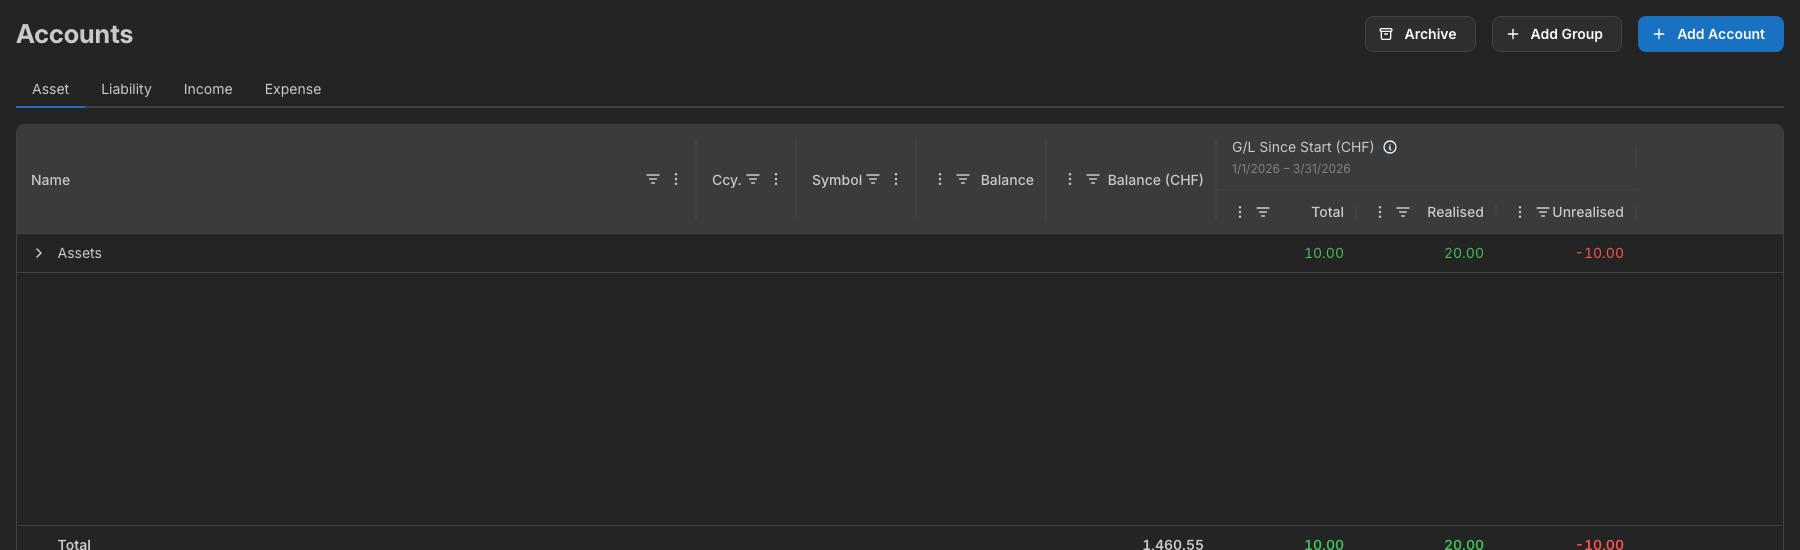
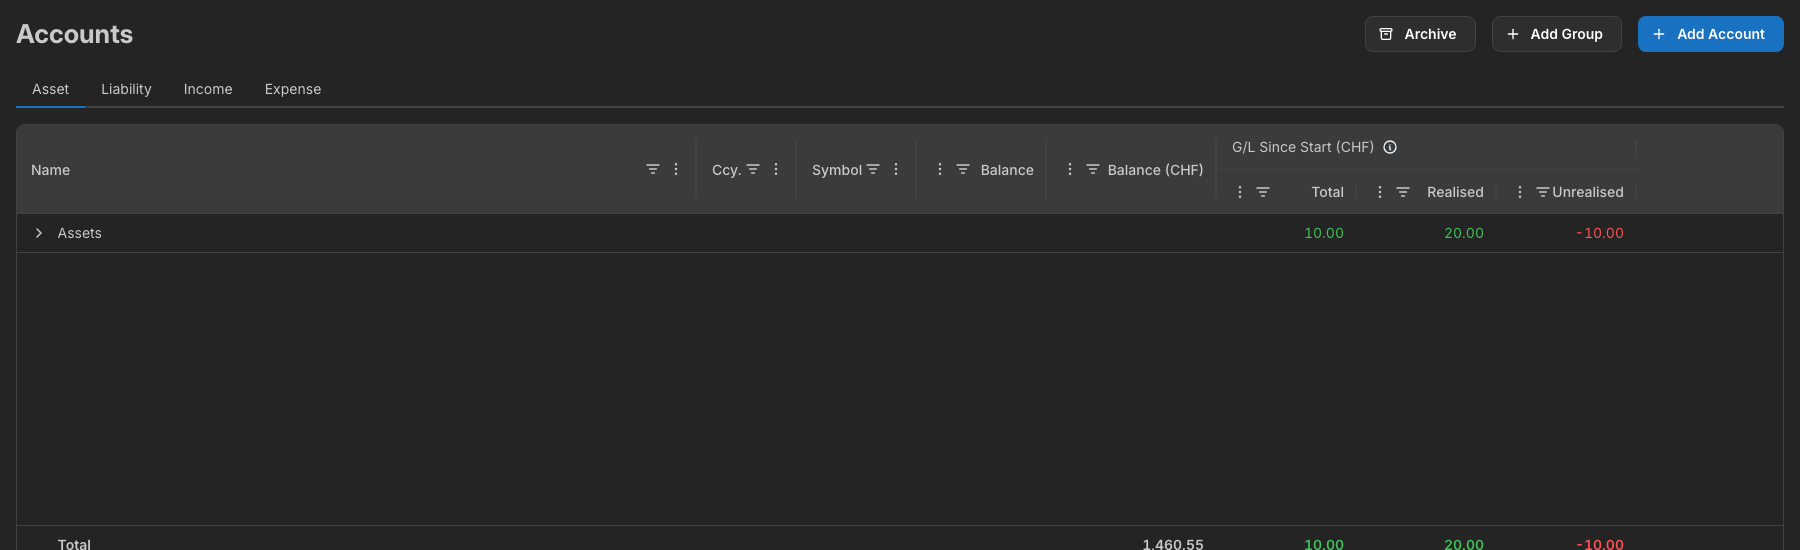
Keep account G/L dates inside the details popover

diff --git a/apps/cashfolio-app2/src/routes/$accountBookId/accounts/-page-view.stories.tsx b/apps/cashfolio-app2/src/routes/$accountBookId/accounts/-page-view.stories.tsx
@@ -570,6 +570,18 @@ async function findVisibleDialog(
   return dialog;
 }
 
+async function openGainLossDetails(canvasElement: HTMLElement) {
+  await userEvent.click(
+    await within(canvasElement).findByRole("button", {
+      name: "Show gain/loss details",
+    }),
+  );
+  return findVisibleDialog(
+    within(canvasElement.ownerDocument.body),
+    "Gain/loss details",
+  );
+}
+
 export const ActiveHappyPath: Story = {
   render: () => <AccountsPageStoryHarness initialMode="active" />,
 };
@@ -767,17 +779,7 @@ export const GainLossLoading: Story = {
     <AccountsPageStoryHarness initialMode="active" gainLossState="loading" />
   ),
   play: async ({ canvasElement }) => {
-    const canvas = within(canvasElement);
-    expect(
-      await canvas.findByLabelText("Loading calculation dates"),
-    ).toHaveAttribute("aria-busy", "true");
-    await userEvent.click(
-      canvas.getByRole("button", { name: "Show gain/loss details" }),
-    );
-    const details = await within(canvasElement.ownerDocument.body).findByRole(
-      "dialog",
-      { name: "Gain/loss details" },
-    );
+    const details = await openGainLossDetails(canvasElement);
     expect(details).toHaveTextContent("Loading calculation dates…");
     expect(details).toHaveTextContent("Totals include only active accounts");
     await userEvent.keyboard("{Escape}");
@@ -794,23 +796,35 @@ export const GainLossLoadingToReady: Story = {
   ),
   play: async ({ canvasElement }) => {
     const canvas = within(canvasElement);
-    await canvas.findByLabelText("Loading calculation dates");
+    let header = await canvas.findByRole("columnheader", {
+      name: /G\/L Since Start \(CHF\)/,
+    });
+    await canvas.findByText("Assets", { exact: true });
     const grid = canvasElement.querySelector(".ag-root-wrapper");
     const firstRow = canvasElement.querySelector('.ag-row[row-index="0"]');
     if (!grid || !firstRow) throw new Error("Accounts grid has no first row");
+    expect(grid.getBoundingClientRect().height).toBeGreaterThan(100);
     const gridTop = grid.getBoundingClientRect().top;
     const rowTop = firstRow.getBoundingClientRect().top;
+    const headerBounds = header.getBoundingClientRect();
+    expect(header).not.toHaveTextContent(/2026|Loading|unavailable/);
     await userEvent.click(
       canvas.getByRole("button", { name: "Toggle gain/loss loading" }),
     );
-    await canvas.findByText("1/1/2026 – 3/31/2026");
-    expect(grid.getBoundingClientRect().top).toBe(gridTop);
-    expect(firstRow.getBoundingClientRect().top).toBe(rowTop);
-
-    const header = canvas.getByRole("columnheader", {
+    await waitFor(() =>
+      expect(
+        firstRow.querySelector('[col-id="totalGainLoss"]'),
+      ).toHaveTextContent("10.00"),
+    );
+    header = canvas.getByRole("columnheader", {
       name: /G\/L Since Start \(CHF\)/,
     });
-    expect(header.getBoundingClientRect().height).toBe(64);
+    expect(grid.getBoundingClientRect().top).toBe(gridTop);
+    expect(firstRow.getBoundingClientRect().top).toBe(rowTop);
+    expect(header.getBoundingClientRect().top).toBe(headerBounds.top);
+    expect(header.getBoundingClientRect().height).toBe(headerBounds.height);
+    expect(header).not.toHaveTextContent(/2026|Loading|unavailable/);
+
     header.focus();
     await userEvent.tab();
     const button = canvas.getByRole("button", {
@@ -836,10 +850,17 @@ export const GainLossLoadingToReady: Story = {
     await userEvent.click(
       canvas.getByRole("button", { name: "Toggle gain/loss loading" }),
     );
-    await canvas.findByLabelText("Loading calculation dates");
-    expect(canvas.queryByText("1/1/2026 – 3/31/2026")).not.toBeInTheDocument();
+    const loadingDetails = await openGainLossDetails(canvasElement);
+    header = canvas.getByRole("columnheader", {
+      name: /G\/L Since Start \(CHF\)/,
+    });
+    expect(loadingDetails).toHaveTextContent("Loading calculation dates…");
+    expect(loadingDetails).not.toHaveTextContent("Since 1/1/2026");
     expect(grid.getBoundingClientRect().top).toBe(gridTop);
     expect(firstRow.getBoundingClientRect().top).toBe(rowTop);
+    expect(header.getBoundingClientRect().top).toBe(headerBounds.top);
+    expect(header.getBoundingClientRect().height).toBe(headerBounds.height);
+    await userEvent.keyboard("{Escape}");
   },
 };
 
@@ -849,19 +870,15 @@ export const GainLossFailure: Story = {
   ),
   play: async ({ canvasElement }) => {
     const canvas = within(canvasElement);
-    await canvas.findByText("Dates unavailable");
-    await userEvent.click(
-      canvas.getByRole("button", { name: "Show gain/loss details" }),
-    );
-    const details = await within(canvasElement.ownerDocument.body).findByRole(
-      "dialog",
-      { name: "Gain/loss details" },
-    );
+    expect(canvas.queryByText("Dates unavailable")).not.toBeInTheDocument();
+    const details = await openGainLossDetails(canvasElement);
     expect(details).toHaveTextContent("Dates unavailable");
     await userEvent.keyboard("{Escape}");
     await userEvent.click(canvas.getByRole("button", { name: "Retry" }));
-    await canvas.findByText("1/1/2026 – 3/31/2026");
+    const readyDetails = await openGainLossDetails(canvasElement);
+    expect(readyDetails).toHaveTextContent("Since 1/1/2026 · As of 3/31/2026");
     expect(canvas.queryByText("Gain/Loss Unavailable")).not.toBeInTheDocument();
+    await userEvent.keyboard("{Escape}");
   },
 };
 export const GainLossPartial: Story = {
@@ -869,7 +886,9 @@ export const GainLossPartial: Story = {
     <AccountsPageStoryHarness initialMode="active" gainLossState="partial" />
   ),
   play: async ({ canvasElement }) => {
-    await within(canvasElement).findByText("1/1/2026 – 3/31/2026");
+    const details = await openGainLossDetails(canvasElement);
+    expect(details).toHaveTextContent("Since 1/1/2026 · As of 3/31/2026");
+    await userEvent.keyboard("{Escape}");
   },
 };
 
@@ -880,6 +899,8 @@ export const LocalizedLiabilityGainLoss: Story = {
     </UserLocaleProvider>
   ),
   play: async ({ canvasElement }) => {
-    await within(canvasElement).findByText("1.1.2026 – 31.3.2026");
+    const details = await openGainLossDetails(canvasElement);
+    expect(details).toHaveTextContent("Since 1.1.2026 · As of 31.3.2026");
+    await userEvent.keyboard("{Escape}");
   },
 };

diff --git a/apps/cashfolio-app2/src/routes/$accountBookId/accounts/-gain-loss-header.tsx b/apps/cashfolio-app2/src/routes/$accountBookId/accounts/-gain-loss-header.tsx
@@ -2,7 +2,6 @@ import {
   ActionIcon,
   Group,
   Popover,
-  Skeleton,
   Stack,
   Text,
   Tooltip,
@@ -13,7 +12,6 @@ import { formatUtcDateForLocale } from "@/shared/date";
 import { useUserLocale } from "@/user-locale-context";
 import type { AccountGainLossSummaries } from "@/shared/account-gain-loss";
 import type { AccountsGridRow } from "./-page-types";
-import classes from "./-gain-loss-header.module.css";
 
 export type GainLossHeaderParams = {
   data?: Pick<AccountGainLossSummaries, "startDate" | "asOfDate">;
@@ -36,84 +34,62 @@ export function AccountGainLossHeader({
     : undefined;
 
   return (
-    <Stack gap={2} className={classes.header}>
-      <Group gap={4} wrap="nowrap">
-        <Text size="sm" truncate>
-          {displayName}
-        </Text>
-        <Popover
-          width={340}
-          position="bottom-end"
-          withArrow
-          shadow="md"
-          withinPortal
-          trapFocus
-          returnFocus
-          middlewares={{ flip: true, shift: { padding: 12 } }}
-        >
-          <Popover.Target>
-            <Tooltip label="Show gain/loss details">
-              <ActionIcon
-                aria-label="Show gain/loss details"
-                size="sm"
-                variant="subtle"
-                onPointerDown={(event) => event.stopPropagation()}
-                onMouseDown={(event) => event.stopPropagation()}
-              >
-                <IconInfoCircle size={16} />
-              </ActionIcon>
-            </Tooltip>
-          </Popover.Target>
-          <Popover.Dropdown
-            aria-label="Gain/loss details"
-            aria-labelledby={undefined}
-            maw="calc(100vw - 24px)"
-          >
-            <Stack gap="xs">
-              <Text size="sm">
-                {data ? (
-                  <>
-                    Since {startDate} · As of {asOfDate}
-                  </>
-                ) : loading ? (
-                  "Loading calculation dates…"
-                ) : (
-                  "Dates unavailable"
-                )}
-              </Text>
-              <Text size="sm">
-                Calculated holding G/L since account-book start; excludes
-                explicit G/L bookings.
-              </Text>
-              <Text size="sm">
-                Totals include only {isArchivedMode ? "archived" : "active"}{" "}
-                accounts in this tab. Incomplete columns show —; totals require
-                complete data for every eligible account.
-              </Text>
-            </Stack>
-          </Popover.Dropdown>
-        </Popover>
-      </Group>
-      <Text
-        component="div"
-        size="xs"
-        c="dimmed"
-        className={classes.dates}
-        aria-busy={loading}
-        aria-label={loading ? "Loading calculation dates" : undefined}
-      >
-        {data ? (
-          `${startDate} – ${asOfDate}`
-        ) : loading ? (
-          <Group gap={6} wrap="nowrap" aria-hidden="true">
-            <Skeleton width={64} height={10} />
-            <span>–</span>
-            <Skeleton width={64} height={10} />
-          </Group>
-        ) : (
-          "Dates unavailable"
-        )}
+    <Group gap={4} wrap="nowrap" miw={0}>
+      <Text size="sm" truncate>
+        {displayName}
       </Text>
-    </Stack>
+      <Popover
+        width={340}
+        position="bottom-end"
+        withArrow
+        shadow="md"
+        withinPortal
+        trapFocus
+        returnFocus
+        middlewares={{ flip: true, shift: { padding: 12 } }}
+      >
+        <Popover.Target>
+          <Tooltip label="Show gain/loss details">
+            <ActionIcon
+              aria-label="Show gain/loss details"
+              size="sm"
+              variant="subtle"
+              onPointerDown={(event) => event.stopPropagation()}
+              onMouseDown={(event) => event.stopPropagation()}
+            >
+              <IconInfoCircle size={16} />
+            </ActionIcon>
+          </Tooltip>
+        </Popover.Target>
+        <Popover.Dropdown
+          aria-label="Gain/loss details"
+          aria-labelledby={undefined}
+          maw="calc(100vw - 24px)"
+        >
+          <Stack gap="xs">
+            <Text size="sm">
+              {data ? (
+                <>
+                  Since {startDate} · As of {asOfDate}
+                </>
+              ) : loading ? (
+                "Loading calculation dates…"
+              ) : (
+                "Dates unavailable"
+              )}
+            </Text>
+            <Text size="sm">
+              Calculated holding G/L since account-book start; excludes explicit
+              G/L bookings.
+            </Text>
+            <Text size="sm">
+              Totals include only {isArchivedMode ? "archived" : "active"}{" "}
+              accounts in this tab. Incomplete columns show —; totals require
+              complete data for every eligible account.
+            </Text>
+          </Stack>
+        </Popover.Dropdown>
+      </Popover>
+    </Group>
   );
 }

diff --git a/apps/cashfolio-app2/e2e/tests/account-gain-loss.spec.ts b/apps/cashfolio-app2/e2e/tests/account-gain-loss.spec.ts
@@ -107,7 +107,10 @@ test("accumulated account G/L, nested totals, historical summary, and FIFO expla
     name: /G\/L Since Start \(CHF\)/,
   });
   await expect(gainLossHeader).toBeVisible();
-  await expect(gainLossHeader).toContainText("1/1/2026 –");
+  await expect(gainLossHeader).not.toContainText("1/1/2026");
+  await expect(
+    agGridCellByColId(agGridPinnedBottomRow(page), "totalGainLoss"),
+  ).toHaveText("21.00");
   await gainLossHeader
     .getByRole("button", { name: "Show gain/loss details" })
     .click();
@@ -132,9 +135,6 @@ test("accumulated account G/L, nested totals, historical summary, and FIFO expla
     await expect(
       agGridCellByColId(agGridRowByText(page, name), "totalGainLoss"),
     ).toHaveText("21.00");
-  await expect(
-    agGridCellByColId(agGridPinnedBottomRow(page), "totalGainLoss"),
-  ).toHaveText("21.00");
   await row.dblclick();
   // Each figure has the same currency/text shape; stable IDs disambiguate the three summary values.
   await expect(page.getByTestId("account-gain-loss-realised")).toContainText(
@@ -313,21 +313,25 @@ test("G/L request failure can be retried without blocking the accounts page", as
     page.getByText("Gain/loss could not be loaded. Please try again."),
   ).toBeVisible();
   await expect(
-    page.getByText("Dates unavailable", { exact: true }),
-  ).toBeVisible();
-  await expect(
     page.getByRole("heading", { name: "Accounts", exact: true }),
   ).toBeVisible();
+  await page.getByRole("button", { name: "Show gain/loss details" }).click();
+  const details = page.getByRole("dialog", { name: "Gain/loss details" });
+  await expect(
+    details.getByText("Dates unavailable", { exact: true }),
+  ).toBeVisible();
+  await page.keyboard.press("Escape");
   await page.unroute(pattern);
   await page.getByRole("button", { name: "Retry", exact: true }).click();
   await expect(
     page.getByText("Gain/loss could not be loaded. Please try again."),
   ).not.toBeVisible();
   await expect(
-    page
-      .getByRole("columnheader", { name: /G\/L Since Start \(CHF\)/ })
-      .getByText(/\d.+ – \d/),
-  ).toBeVisible();
+    page.locator('.ag-cell[col-id="totalGainLoss"] .mantine-Loader-root'),
+  ).toHaveCount(0);
+  await page.getByRole("button", { name: "Show gain/loss details" }).click();
+  await expect(details).toContainText(/Since .+ · As of/);
+  await page.keyboard.press("Escape");
 });
 
 test("ledger G/L refreshes after editing execution proceeds", async ({

diff --git a/apps/cashfolio-app2/src/routes/$accountBookId/accounts/-page-view.tsx b/apps/cashfolio-app2/src/routes/$accountBookId/accounts/-page-view.tsx
@@ -241,9 +241,6 @@ export function AccountsPageView({
         </Alert>
       ) : null}
       <DataGrid
-        groupHeaderHeight={
-          tab === "ASSET" || tab === "LIABILITY" ? 64 : undefined
-        }
         containerStyle={{ flex: 1, minHeight: 0 }}
         rowData={rows}
         columnDefs={columnDefs}

diff --git a/apps/cashfolio-app2/docs/valuation-reference-balances.md b/apps/cashfolio-app2/docs/valuation-reference-balances.md
@@ -118,16 +118,15 @@ Only Asset and Liability accounts are eligible, excluding reference-currency
 cash. Ledger data always includes the book's reference currency, independently
 of whether booking values need conversion for reference-currency columns.
 
-The G/L column-group header shows the locale-formatted calculation start and
-as-of dates on a second line. Its height is reserved before the lazy summary
-request completes, with date skeletons during loading and “Dates unavailable”
-after failure, so loaded dates do not move the grid or account rows. The
-header's info button opens calculation details, labelled dates, and the
-explanation of active/archived totals and incomplete data. Details remain
-accessible while loading; failures retain the page's error message and retry
-action.
+The G/L column-group header contains its title and an info button. The button
+opens calculation details with locale-formatted, labelled start and as-of dates
+and the explanation of active/archived totals and incomplete data. Calculation
+dates appear only in the popover, so the lazy summary request does not change
+the header height or move account rows. Details remain accessible while loading,
+with “Loading calculation dates…” before dates arrive and “Dates unavailable”
+after failure. Failures retain the page's error message and retry action.
 
-![Account list with G/L calculation dates in the column header](images/account-gl-header-after.png)
+![Account list with a compact G/L header and info button](images/account-gl-header-after.png)
 
 The shared FIFO/execution-pricing engine supports chronological range replay.
 Executions are ordered by booking date, and completed same-unit transfers carry
